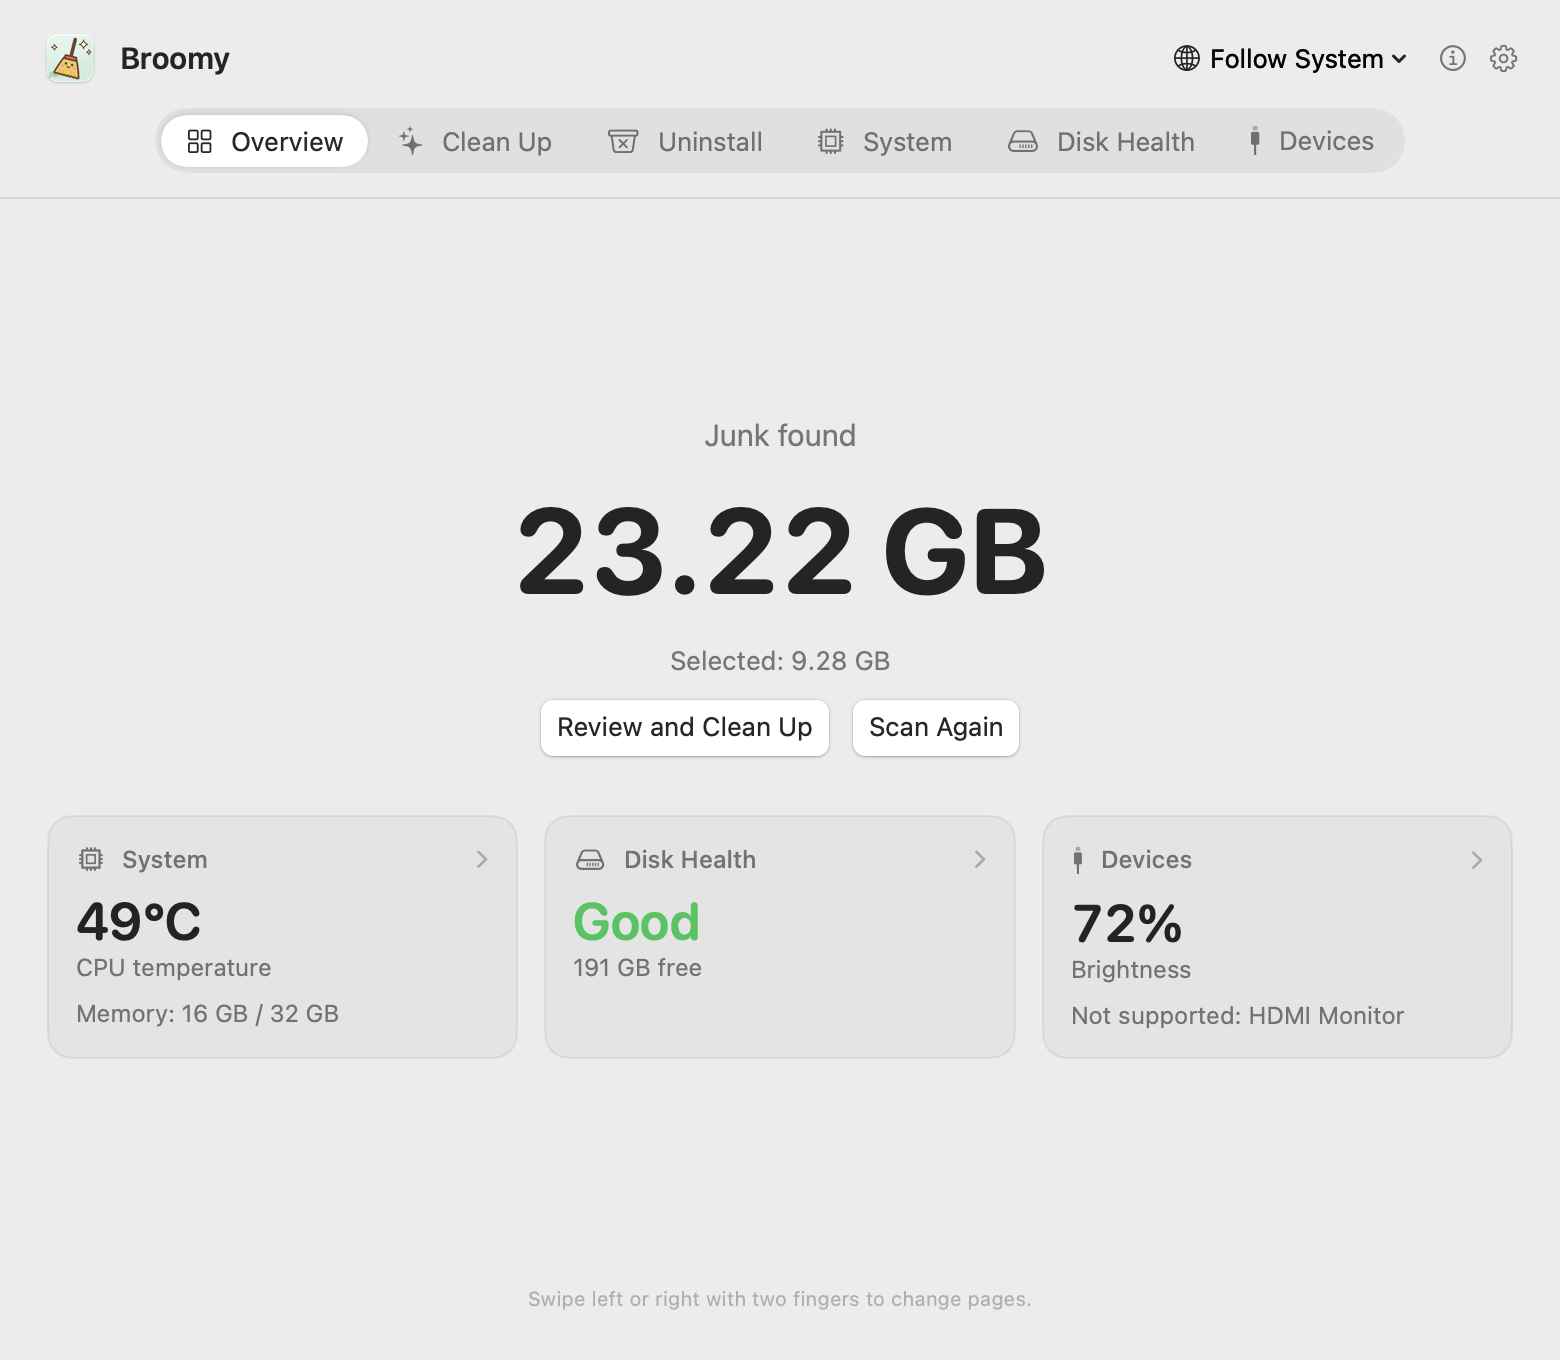
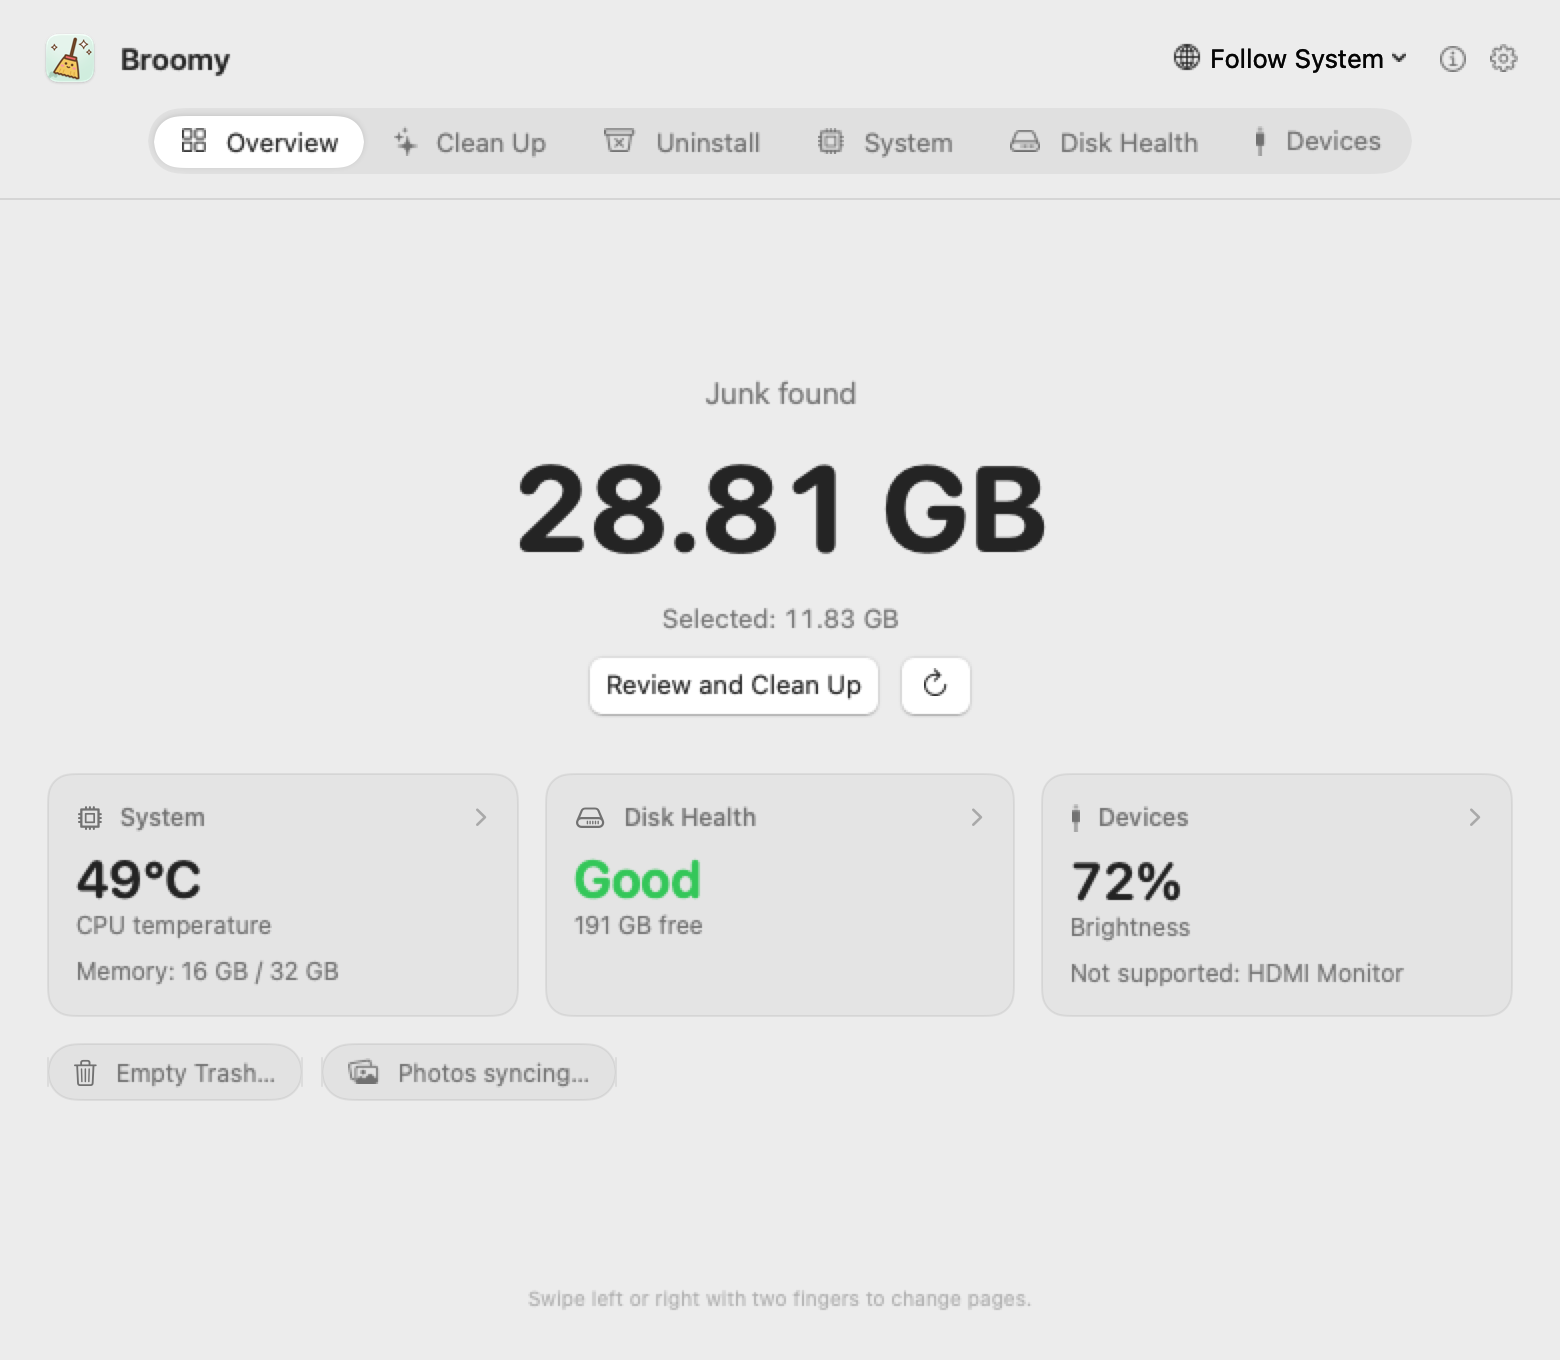
Broomy 1.1

diff --git a/CHANGELOG.ja.md b/CHANGELOG.ja.md
@@ -2,6 +2,16 @@
 
 [English](CHANGELOG.md) · [简体中文](CHANGELOG.zh-CN.md) · [繁體中文](CHANGELOG.zh-TW.md) · **日本語** · [한국어](CHANGELOG.ko.md) · [Español](CHANGELOG.es.md) · [Français](CHANGELOG.fr.md)
 
+## 1.1 — 2026-10-27
+
+- **片付けられるものが増えました**：Xcodeのプレビュー、Webの技術で作られたアプリ（VS Code、Slack、Discordなど）が自分のフォルダに置くキャッシュ（アプリが開いている間はスキップ）、Androidエミュレータのスナップショット、コマンドラインツールのキャッシュ、もう入っていないアプリのデータフォルダ、インストーラに加えてディスクイメージ（.iso、.img）。後ろの4つは最初はチェックなしです。
+- **ゴミ箱を空にする**：「クリーンアップ」「概要」、メニューバーから。空にするのはFinderで、クリックして確認したときだけです。Broomyのほかの部分は何も完全には削除しません。
+- **すっきりした画面**：補助的なボタンはアイコンに（ポインタを置くと名前が出ます）、各項目の説明は ⓘ の中に。
+- **アンインストール**で、開く回数の少ない順に並べられます。
+- 「概要」の **写真の同期…** で、iCloud写真を一時停止する方法と、このMacでオフにする方法を案内します。Broomyは「写真」を開くだけで、設定を自分で変えることはありません。
+- メニューバーのパネルの電源ボタンはBroomyのウインドウを閉じ、メニューバーには残ります。終了はメニューバーのアイコンを右クリックします。
+- 「Broomyについて」から書くメールの件名は [Broomy] で始まります。
+
 ## 1.0 — 2026-10-21
 
 最初のリリース。

diff --git a/CHANGELOG.fr.md b/CHANGELOG.fr.md
@@ -2,6 +2,16 @@
 
 [English](CHANGELOG.md) · [简体中文](CHANGELOG.zh-CN.md) · [繁體中文](CHANGELOG.zh-TW.md) · [日本語](CHANGELOG.ja.md) · [한국어](CHANGELOG.ko.md) · [Español](CHANGELOG.es.md) · **Français**
 
+## 1.1 — 2026-10-27
+
+- **Plus de choses à nettoyer** : aperçus Xcode ; les caches que les apps faites avec des technologies web (comme VS Code, Slack et Discord) gardent dans leurs propres dossiers, ignorés tant que l’app est ouverte ; instantanés de l’émulateur Android ; caches des outils en ligne de commande ; dossiers de données d’apps qui ne sont plus installées ; images disque (.iso, .img) avec les fichiers d’installation. Les quatre derniers sont décochés au départ.
+- **Vider la corbeille** depuis Nettoyage, l’Aperçu ou la barre des menus. C’est le Finder qui la vide, seulement quand vous cliquez et confirmez ; rien d’autre dans Broomy ne supprime quoi que ce soit définitivement.
+- **Des pages plus calmes** : les boutons secondaires sont des icônes (leur nom s’affiche au survol) et la description de chaque catégorie se trouve derrière un ⓘ.
+- **Désinstaller** peut trier les apps selon le peu de fois où vous les ouvrez.
+- **Synchronisation des photos…** dans l’Aperçu explique comment suspendre Photos iCloud ou la désactiver sur ce Mac. Broomy ouvre seulement Photos ; il ne change jamais le réglage lui-même.
+- Le bouton d’alimentation du panneau de la barre des menus ferme les fenêtres de Broomy et le garde dans la barre des menus ; pour quitter, faites un clic droit sur son icône.
+- Le courrier écrit depuis À propos de Broomy commence son objet par [Broomy].
+
 ## 1.0 — 2026-10-21
 
 Première version.

diff --git a/CHANGELOG.ko.md b/CHANGELOG.ko.md
@@ -2,6 +2,16 @@
 
 [English](CHANGELOG.md) · [简体中文](CHANGELOG.zh-CN.md) · [繁體中文](CHANGELOG.zh-TW.md) · [日本語](CHANGELOG.ja.md) · **한국어** · [Español](CHANGELOG.es.md) · [Français](CHANGELOG.fr.md)
 
+## 1.1 — 2026-10-27
+
+- **정리할 수 있는 것이 늘었습니다**: Xcode 미리보기, 웹 기술로 만든 앱(VS Code, Slack, Discord 등)이 자기 폴더에 두는 캐시(앱이 열려 있으면 건너뜀), Android 에뮬레이터 스냅샷, 명령줄 도구 캐시, 더 이상 설치되어 있지 않은 앱의 데이터 폴더, 설치 파일과 함께 디스크 이미지(.iso, .img). 뒤의 네 가지는 처음에 체크되어 있지 않습니다.
+- **휴지통 비우기**: 정리, 개요, 메뉴 막대에서 할 수 있습니다. 비우는 일은 Finder가 하며, 클릭하고 확인했을 때만입니다. Broomy의 다른 부분은 아무것도 영구적으로 삭제하지 않습니다.
+- **더 깔끔한 화면**: 보조 버튼은 아이콘으로 바뀌었고(포인터를 올리면 이름이 보입니다), 항목 설명은 ⓘ 안에 들어갔습니다.
+- **제거**에서 앱을 적게 연 순서로 정렬할 수 있습니다.
+- 개요의 **사진 동기화…** 에서 iCloud 사진을 일시 정지하거나 이 Mac에서 끄는 방법을 알려 줍니다. Broomy는 사진 앱만 열고, 설정을 직접 바꾸지 않습니다.
+- 메뉴 막대 패널의 전원 버튼은 Broomy 창을 닫고 메뉴 막대에는 남겨 둡니다. 종료하려면 메뉴 막대 아이콘을 오른쪽 클릭하세요.
+- Broomy에 관하여에서 쓰는 메일의 제목은 [Broomy]로 시작합니다.
+
 ## 1.0 — 2026-10-21
 
 첫 출시.

diff --git a/CHANGELOG.es.md b/CHANGELOG.es.md
@@ -2,6 +2,16 @@
 
 [English](CHANGELOG.md) · [简体中文](CHANGELOG.zh-CN.md) · [繁體中文](CHANGELOG.zh-TW.md) · [日本語](CHANGELOG.ja.md) · [한국어](CHANGELOG.ko.md) · **Español** · [Français](CHANGELOG.fr.md)
 
+## 1.1 — 2026-10-27
+
+- **Más cosas que limpiar**: previsualizaciones de Xcode; las cachés que las apps hechas con tecnología web (como VS Code, Slack y Discord) guardan en sus propias carpetas, que se omiten mientras la app está abierta; instantáneas del emulador de Android; cachés de herramientas de línea de comandos; carpetas de datos de apps que ya no están instaladas; imágenes de disco (.iso, .img) junto a los instaladores. Las cuatro últimas empiezan sin marcar.
+- **Vaciar la papelera** desde Limpieza, el Resumen o la barra de menús. La vacía el Finder, y solo cuando haces clic y confirmas; nada más en Broomy elimina nada para siempre.
+- **Páginas más tranquilas**: los botones secundarios son iconos (su nombre aparece al apuntarlos) y la descripción de cada categoría está tras una ⓘ.
+- **Desinstalar** puede ordenar las apps según lo poco que las abres.
+- **Sincronización de fotos…** en el Resumen explica cómo pausar Fotos en iCloud o desactivarla en este Mac. Broomy solo abre Fotos; nunca cambia el ajuste por sí mismo.
+- El botón de encendido del panel de la barra de menús cierra las ventanas de Broomy y lo deja en la barra de menús; para salir, haz clic derecho en su icono.
+- El correo escrito desde Acerca de Broomy empieza su asunto con [Broomy].
+
 ## 1.0 — 2026-10-21
 
 Primera versión.

diff --git a/CHANGELOG.md b/CHANGELOG.md
@@ -2,6 +2,16 @@
 
 **English** · [简体中文](CHANGELOG.zh-CN.md) · [繁體中文](CHANGELOG.zh-TW.md) · [日本語](CHANGELOG.ja.md) · [한국어](CHANGELOG.ko.md) · [Español](CHANGELOG.es.md) · [Français](CHANGELOG.fr.md)
 
+## 1.1 — 2026-10-27
+
+- **More to clean up**: Xcode previews; the caches that apps built on web technology (such as VS Code, Slack and Discord) keep in their own folders, skipped while the app is open; Android emulator snapshots; command-line tool caches; data folders of apps that are no longer installed; disk images (.iso, .img) along with installers. The last four start unticked.
+- **Empty the Trash** from Clean Up, the Overview or the menu bar. The Finder empties it, only when you click and confirm; nothing else in Broomy deletes anything for good.
+- **Calmer pages**: secondary buttons are icons (their names show when you point at them), and each category's description sits behind an ⓘ.
+- **Uninstall** can sort apps by how rarely you open them.
+- **Photos syncing…** on the Overview shows how to pause iCloud Photos or turn it off on this Mac. Broomy only opens Photos; it never changes the setting itself.
+- The menu bar panel's power button closes Broomy's windows and keeps it in the menu bar; right-click the menu bar icon to quit.
+- Mail written from About starts its subject with [Broomy].
+
 ## 1.0 — 2026-10-21
 
 First release.

diff --git a/CHANGELOG.zh-TW.md b/CHANGELOG.zh-TW.md
@@ -2,6 +2,16 @@
 
 [English](CHANGELOG.md) · [简体中文](CHANGELOG.zh-CN.md) · **繁體中文** · [日本語](CHANGELOG.ja.md) · [한국어](CHANGELOG.ko.md) · [Español](CHANGELOG.es.md) · [Français](CHANGELOG.fr.md)
 
+## 1.1 — 2026-10-27
+
+- **能清的更多了**：Xcode 預覽；用網頁技術做的 App（例如 VS Code、Slack、Discord）放在自己檔案夾裡的快取，App 開著就略過；Android 模擬器快照；命令列工具快取；已經移除的 App 留下的資料檔案夾；安裝檔之外還認磁碟映像檔（.iso、.img）。後四類預設不勾。
+- **清空垃圾桶**：在清理垃圾頁、總覽頁或選單列都能按。由 Finder 來清，只在你按了並確認以後；小掃帚別的地方都不會永久刪除任何東西。
+- **頁面更清爽**：次要按鈕換成圖像（滑鼠停上去顯示名稱），每類的說明收進 ⓘ。
+- **解除安裝**可以按「最少使用」為 App 排序。
+- 總覽頁的 **照片同步…** 教你怎麼暫停 iCloud 照片，或在這台 Mac 上關掉。小掃帚只幫你打開「照片」，不會自己改設定。
+- 選單列面板的電源按鈕只關掉小掃帚的視窗，它繼續留在選單列；要結束，在選單列圖像上按右鍵。
+- 從「關於」裡寫信，主旨前面會自動帶上 [Broomy]。
+
 ## 1.0 — 2026-10-21
 
 第一版。

diff --git a/CHANGELOG.zh-CN.md b/CHANGELOG.zh-CN.md
@@ -2,6 +2,16 @@
 
 [English](CHANGELOG.md) · **简体中文** · [繁體中文](CHANGELOG.zh-TW.md) · [日本語](CHANGELOG.ja.md) · [한국어](CHANGELOG.ko.md) · [Español](CHANGELOG.es.md) · [Français](CHANGELOG.fr.md)
 
+## 1.1 — 2026-10-27
+
+- **能清的更多了**：Xcode 预览；用网页技术做的 App（比如 VS Code、Slack、Discord）放在自己文件夹里的缓存，App 开着就跳过；Android 模拟器快照；命令行工具缓存；已经卸掉的 App 留下的数据文件夹；安装包之外还认磁盘映像（.iso、.img）。后四类默认不勾。
+- **清空废纸篓**：在清理垃圾页、概览页或菜单栏都能点。由访达来清，只在你点了并确认以后；小扫帚别的地方都不会永久删除任何东西。
+- **页面更清爽**：次要按钮换成图标（鼠标停上去显示名字），每类的说明收进 ⓘ。
+- **卸载**可以按“最少使用”给 App 排序。
+- 概览页的 **照片同步…** 教你怎么暂停 iCloud 照片，或者在这台 Mac 上关掉。小扫帚只帮你打开“照片”，不会自己改设置。
+- 菜单栏面板的电源按钮只关掉小扫帚的窗口，它继续留在菜单栏；要退出，在菜单栏图标上点右键。
+- 从“关于”里写信，主题前面会自动带上 [Broomy]。
+
 ## 1.0 — 2026-10-21
 
 第一版。

diff --git a/README.ja.md b/README.ja.md
@@ -12,7 +12,7 @@
 
 ## ダウンロード
 
-**[Broomy 1.0](https://github.com/techinfo-apps/Broomy/releases/latest)**：macOS 14 以降、Apple シリコンと Intel の両方に対応。.dmg を開いて、Broomy を「アプリケーション」にドラッグしてください。
+**[Broomy 1.1](https://github.com/techinfo-apps/Broomy/releases/latest)**：macOS 14 以降、Apple シリコンと Intel の両方に対応。.dmg を開いて、Broomy を「アプリケーション」にドラッグしてください。
 
 このアプリはまだ Apple の公証を受けていないため、初回は macOS に止められます。macOS 14：**Broomy を右クリック → 開く → 開く**。macOS 15 以降：一度開いてから **システム設定 → プライバシーとセキュリティ** を下にスクロールし、Broomy の横の **このまま開く** をクリックしてください。
 

diff --git a/README.fr.md b/README.fr.md
@@ -12,7 +12,7 @@ Un petit nettoyeur honnête pour votre Mac. Broomy trouve ce que l’on peut sup
 
 ## Téléchargement
 
-**[Broomy 1.0](https://github.com/techinfo-apps/Broomy/releases/latest)** : macOS 14 ou ultérieur, Apple silicon ou Intel. Ouvrez le .dmg et glissez Broomy dans Applications.
+**[Broomy 1.1](https://github.com/techinfo-apps/Broomy/releases/latest)** : macOS 14 ou ultérieur, Apple silicon ou Intel. Ouvrez le .dmg et glissez Broomy dans Applications.
 
 Broomy n’est pas encore notarié par Apple, donc macOS l’arrête la première fois. Sur macOS 14 : **clic droit sur Broomy → Ouvrir → Ouvrir**. Sur macOS 15 et ultérieur : ouvrez-le une fois, puis allez dans **Réglages Système → Confidentialité et sécurité**, faites défiler vers le bas et cliquez sur **Ouvrir quand même** à côté de Broomy.
 

diff --git a/README.ko.md b/README.ko.md
@@ -12,7 +12,7 @@
 
 ## 다운로드
 
-**[Broomy 1.0](https://github.com/techinfo-apps/Broomy/releases/latest)**: macOS 14 이상, Apple 실리콘과 Intel 모두 지원합니다. .dmg를 열고 Broomy를 응용 프로그램 폴더로 끌어다 놓으세요.
+**[Broomy 1.1](https://github.com/techinfo-apps/Broomy/releases/latest)**: macOS 14 이상, Apple 실리콘과 Intel 모두 지원합니다. .dmg를 열고 Broomy를 응용 프로그램 폴더로 끌어다 놓으세요.
 
 아직 Apple의 공증을 받지 않아 처음 열 때 macOS가 막습니다. macOS 14: **Broomy를 오른쪽 클릭 → 열기 → 열기**. macOS 15 이상: 한 번 열어 본 뒤 **시스템 설정 → 개인정보 보호 및 보안**에서 아래로 스크롤해 Broomy 옆의 **확인 없이 열기**를 클릭하세요.
 

diff --git a/README.es.md b/README.es.md
@@ -12,7 +12,7 @@ Un limpiador pequeño y honesto para tu Mac. Broomy encuentra lo que se puede bo
 
 ## Descarga
 
-**[Broomy 1.0](https://github.com/techinfo-apps/Broomy/releases/latest)**: macOS 14 o posterior, Apple silicon o Intel. Abre el .dmg y arrastra Broomy a Aplicaciones.
+**[Broomy 1.1](https://github.com/techinfo-apps/Broomy/releases/latest)**: macOS 14 o posterior, Apple silicon o Intel. Abre el .dmg y arrastra Broomy a Aplicaciones.
 
 Broomy todavía no está notarizado por Apple, así que macOS lo detiene la primera vez. En macOS 14: **clic secundario en Broomy → Abrir → Abrir**. En macOS 15 y posteriores: ábrelo una vez y luego ve a **Ajustes del Sistema → Privacidad y seguridad**, desplázate hacia abajo y haz clic en **Abrir igualmente** junto a Broomy.
 

diff --git a/README.md b/README.md
@@ -12,7 +12,7 @@ A small, honest cleaner for your Mac. Broomy finds what's safe to remove, uninst
 
 ## Download
 
-**[Broomy 1.0](https://github.com/techinfo-apps/Broomy/releases/latest)**: macOS 14 or later, Apple silicon or Intel. Open the .dmg and drag Broomy to Applications.
+**[Broomy 1.1](https://github.com/techinfo-apps/Broomy/releases/latest)**: macOS 14 or later, Apple silicon or Intel. Open the .dmg and drag Broomy to Applications.
 
 Broomy isn't notarized by Apple yet, so macOS stops it the first time. On macOS 14: **right-click Broomy → Open → Open**. On macOS 15 and later: open it once, then go to **System Settings → Privacy & Security**, scroll down and click **Open Anyway** next to Broomy.
 
